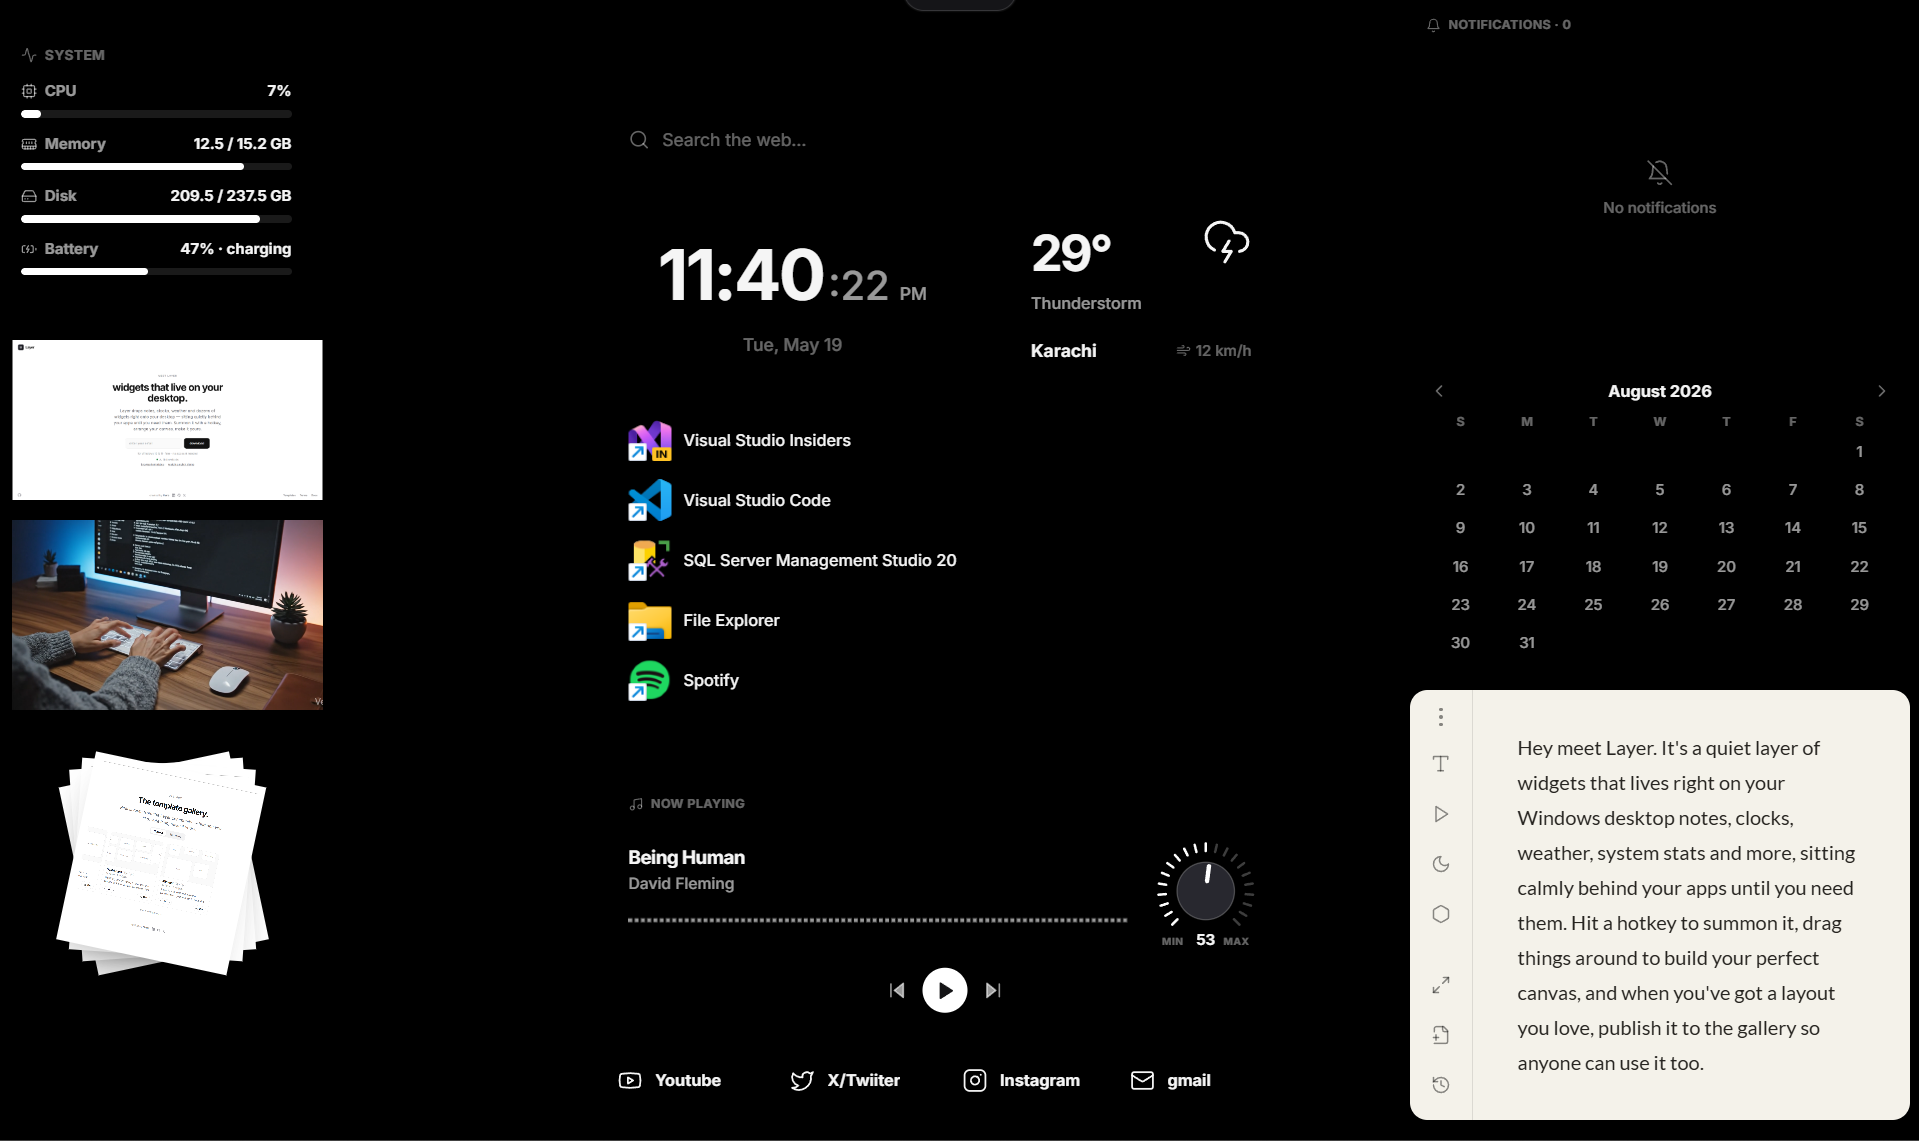
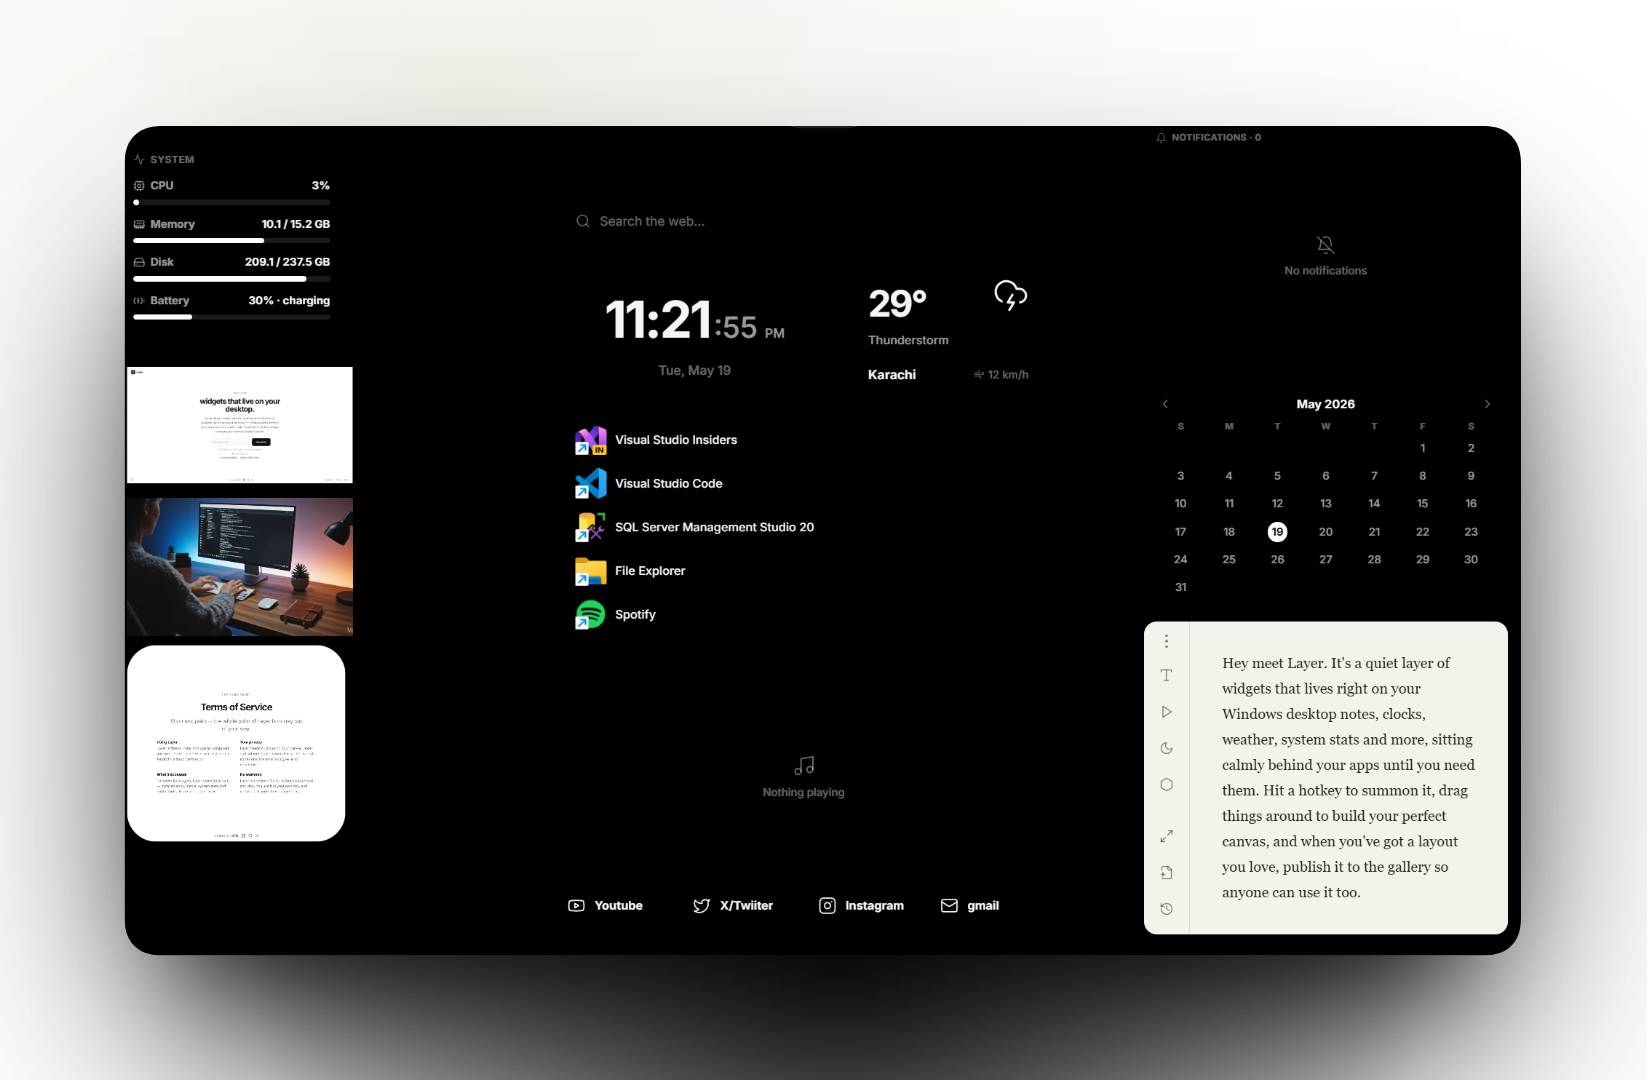
Redesign Demo page
Hero walkthrough video + alternating feature blocks (text ↔ media)
showcasing the canvas (fullscreen.png), the journaling note widget
(noteswidget.mp4) and the now-playing media widget (media.png). New
larger screenshots, smoother typography, hover lift on media tiles,
mobile-stacked layout, and a download CTA at the bottom.

Compressed noteswidget.mp4 from 16 MB → 1.9 MB (1080p H.264).

diff --git a/src/index.css b/src/index.css
@@ -285,54 +285,146 @@ a {
 }
 
 /* ---------- demo ---------- */
-.demo {
+.demo2 {
   width: 100%;
-  max-width: 560px;
-  text-align: center;
+  max-width: 1040px;
+  margin: 0 auto;
 }
-.demo-video {
-  margin-top: 24px;
-  aspect-ratio: 16 / 9;
-  width: 100%;
-  border-radius: 16px;
+.demo-hero {
+  text-align: center;
+  margin-bottom: 90px;
+}
+.demo-hero .display {
+  margin-top: 18px;
+}
+.demo-hero .lead {
+  margin: 18px auto 32px;
+  max-width: 580px;
+}
+.demo-hero-video {
+  position: relative;
+  border-radius: 18px;
+  overflow: hidden;
   border: 1px solid var(--line);
   background: #fafafa;
-  display: flex;
-  align-items: center;
-  justify-content: center;
-  overflow: hidden;
+  box-shadow: 0 24px 60px -22px rgba(0, 0, 0, 0.35);
 }
-.demo-video video {
+.demo-hero-video video {
   width: 100%;
-  height: 100%;
+  display: block;
+  aspect-ratio: 16 / 9;
   object-fit: cover;
 }
-.demo-placeholder {
+
+.demo-sections {
   display: flex;
   flex-direction: column;
-  align-items: center;
-  gap: 10px;
-  color: var(--faint);
-  font-size: 13.5px;
+  gap: 110px;
+  margin-bottom: 110px;
 }
-.demo-shots {
-  margin-top: 12px;
+.demo-row {
   display: grid;
-  grid-template-columns: repeat(3, 1fr);
-  gap: 12px;
+  grid-template-columns: 1fr 1.35fr;
+  gap: 56px;
+  align-items: center;
 }
-.shot {
-  aspect-ratio: 16 / 10;
-  width: 100%;
-  border-radius: 11px;
+.demo-row.reverse {
+  grid-template-columns: 1.35fr 1fr;
+}
+.demo-row.reverse .demo-text {
+  order: 2;
+}
+.demo-row.reverse .demo-media {
+  order: 1;
+}
+.demo-text .label {
+  margin-bottom: 14px;
+}
+.demo-text h2 {
+  font-size: 36px;
+  font-weight: 700;
+  letter-spacing: -1.4px;
+  line-height: 1.08;
+  color: var(--ink);
+  margin: 0 0 16px;
+}
+.demo-text p {
+  font-size: 16px;
+  line-height: 1.65;
+  color: var(--muted);
+  margin: 0;
+}
+.demo-media {
+  border-radius: 16px;
+  overflow: hidden;
   border: 1px solid var(--line);
   background: #fafafa;
+  box-shadow: 0 18px 50px -22px rgba(0, 0, 0, 0.3);
+  transition:
+    transform 0.25s ease,
+    box-shadow 0.25s ease;
+}
+.demo-media:hover {
+  transform: translateY(-2px);
+  box-shadow: 0 22px 56px -22px rgba(0, 0, 0, 0.35);
+}
+.demo-media img,
+.demo-media video {
+  width: 100%;
+  display: block;
+  aspect-ratio: 16 / 10;
   object-fit: cover;
-  display: flex;
-  align-items: center;
-  justify-content: center;
-  color: var(--faint);
-  font-size: 12px;
+}
+
+.demo-cta {
+  text-align: center;
+  padding: 70px 0 30px;
+  border-top: 1px solid var(--line);
+}
+.demo-cta .lead {
+  margin: 14px auto 26px;
+}
+.demo-dl {
+  display: inline-block;
+  background: var(--ink);
+  color: #ffffff;
+  padding: 14px 32px;
+  border-radius: 12px;
+  text-decoration: none;
+  font-weight: 600;
+  font-size: 15px;
+  transition:
+    transform 0.15s ease,
+    box-shadow 0.15s ease;
+}
+.demo-dl:hover {
+  transform: translateY(-2px);
+  box-shadow: 0 12px 24px -10px rgba(0, 0, 0, 0.35);
+}
+
+@media (max-width: 760px) {
+  .demo-sections {
+    gap: 70px;
+    margin-bottom: 80px;
+  }
+  .demo-row,
+  .demo-row.reverse {
+    grid-template-columns: 1fr;
+    gap: 22px;
+  }
+  .demo-row.reverse .demo-text {
+    order: 1;
+  }
+  .demo-row.reverse .demo-media {
+    order: 2;
+  }
+  .demo-text h2 {
+    font-size: 28px;
+    letter-spacing: -1px;
+  }
+  .demo-text p {
+    font-size: 14.5px;
+  }
 }
 
 /* ---------- template gallery ---------- */

diff --git a/src/pages/Demo.tsx b/src/pages/Demo.tsx
@@ -1,41 +1,115 @@
-import { useState } from 'react'
 import { Shell } from '../components/Shell'
+import { LINKS } from '../lib/links'
 
-// Screenshot tile that falls back to a labelled placeholder if it can't load.
-function Shot({ src, label }: { src: string; label: string }) {
-  const [ok, setOk] = useState(true)
-  if (!ok) return <div className="shot">{label}</div>
-  return (
-    <img
-      className="shot"
-      src={src}
-      alt={`Layer — ${label}`}
-      onError={() => setOk(false)}
-    />
-  )
+interface Section {
+  eyebrow: string
+  title: string
+  body: string
+  reverse?: boolean
+  media:
+    | { kind: 'image'; src: string; alt: string }
+    | { kind: 'video'; src: string; poster?: string; alt: string }
 }
+
+const SECTIONS: Section[] = [
+  {
+    eyebrow: 'A CANVAS OF WIDGETS',
+    title: 'Your desktop, but useful.',
+    body:
+      'Drop notes, clocks, weather, system stats, calendars and more onto your desktop. Drag them anywhere, snap to a grid, lock them when you have it just right — they sit quietly behind your apps until you need them.',
+    media: {
+      kind: 'image',
+      src: '/demo/fullscreen.png',
+      alt: 'A full Layer canvas of widgets on the desktop',
+    },
+  },
+  {
+    eyebrow: 'A REAL JOURNAL',
+    title: 'Write where you work.',
+    body:
+      'The note widget is a full journaling app — multiple entries with history, beautiful typefaces, a focus timer with retro chimes, light and dark themes, and one-click fullscreen for distraction-free writing.',
+    reverse: true,
+    media: {
+      kind: 'video',
+      src: '/demo/noteswidget.mp4',
+      poster: '/demo/notes.png',
+      alt: 'The Layer note widget in motion',
+    },
+  },
+  {
+    eyebrow: 'NOW PLAYING',
+    title: 'See the music without leaving your flow.',
+    body:
+      'A media player that listens to Windows — track, artist, live waveform visualizer, transport controls, and a volume dial all in one calm tile that follows whatever you’re playing.',
+    media: {
+      kind: 'image',
+      src: '/demo/media.png',
+      alt: 'The Layer media widget',
+    },
+  },
+]
 
 export function Demo() {
   return (
-    <Shell>
-      <div className="demo">
-        <div className="label">SEE IT</div>
-        <h1 className="display sm">Layer, in motion.</h1>
+    <Shell scroll>
+      <div className="demo2">
+        <header className="demo-hero">
+          <div className="label">SEE IT IN MOTION</div>
+          <h1 className="display">Layer, in motion.</h1>
+          <p className="lead">
+            A quiet layer of widgets that lives on your desktop. Watch a
+            quick walkthrough — then jump into the bits below.
+          </p>
+          <div className="demo-hero-video">
+            <video
+              src="/demo/walkthrough.mp4"
+              poster="/demo/poster.png"
+              controls
+              playsInline
+              preload="metadata"
+            />
+          </div>
+        </header>
 
-        <div className="demo-video">
-          <video
-            src="/demo/walkthrough.mp4"
-            poster="/demo/poster.jpg"
-            controls
-            playsInline
-            preload="metadata"
-          />
+        <div className="demo-sections">
+          {SECTIONS.map((s) => (
+            <section
+              key={s.title}
+              className={`demo-row ${s.reverse ? 'reverse' : ''}`}
+            >
+              <div className="demo-text">
+                <div className="label">{s.eyebrow}</div>
+                <h2>{s.title}</h2>
+                <p>{s.body}</p>
+              </div>
+              <div className="demo-media">
+                {s.media.kind === 'video' ? (
+                  <video
+                    src={s.media.src}
+                    poster={s.media.poster}
+                    controls
+                    playsInline
+                    preload="metadata"
+                    aria-label={s.media.alt}
+                  />
+                ) : (
+                  <img
+                    src={s.media.src}
+                    alt={s.media.alt}
+                    loading="lazy"
+                  />
+                )}
+              </div>
+            </section>
+          ))}
         </div>
 
-        <div className="demo-shots">
-          <Shot src="/demo/fullscreen.png" label="Fullscreen" />
-          <Shot src="/demo/media.png" label="Media widget" />
-          <Shot src="/demo/notes.png" label="Notes" />
+        <div className="demo-cta">
+          <h2 className="display sm">Yours in a minute.</h2>
+          <p className="lead">Free, no account, Windows 10 &amp; 11.</p>
+          <a className="demo-dl" href={LINKS.download}>
+            Download Layer
+          </a>
         </div>
       </div>
     </Shell>